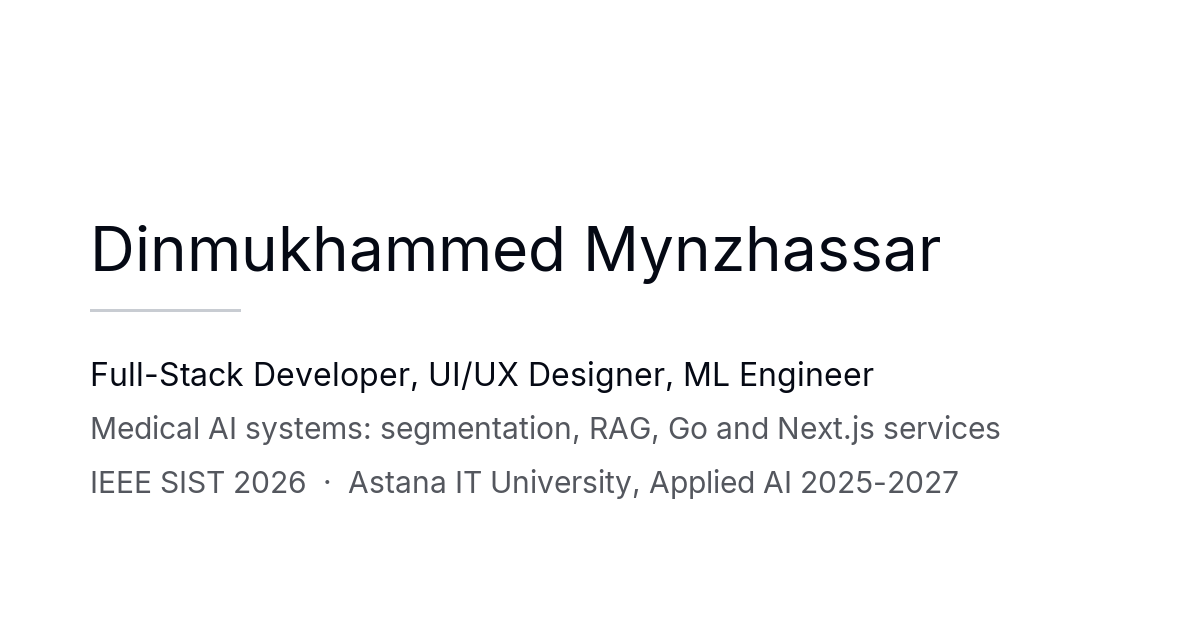
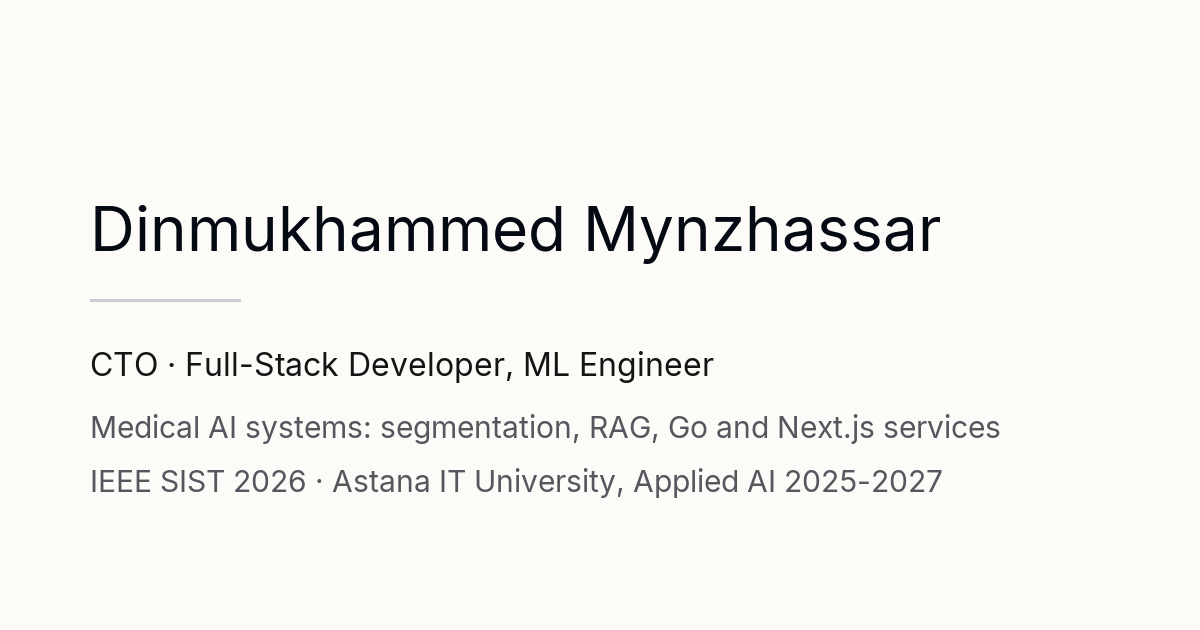
Add CTO title to headline, summary and Galamat experience

diff --git a/content/resume.ts b/content/resume.ts
@@ -11,7 +11,7 @@ export const resume = {
   header: {
     name: 'Dinmukhammed Mynzhassar',
     shortAbout:
-      'Full-Stack Developer (React, TypeScript, Next.js, Go, Python, Java), UI/UX Designer, ML Engineer',
+      'CTO at Galamat Group · Full-Stack Developer (React, TypeScript, Next.js, Go, Python), UI/UX Designer, ML Engineer',
     location: 'Astana, Kazakhstan',
     contacts: {
       email: 'mynzhasardimash@gmail.com',
@@ -47,14 +47,14 @@ export const resume = {
   },
 
   summary:
-    'I build medical AI systems end to end: segmentation models in MONAI, RAG pipelines over clinical knowledge bases, and the Go and Next.js services that put them in front of patients and clinicians. I work as a full-stack and ML engineer in Astana on platforms covering psychology, urology, ophthalmology and lab-result interpretation. My chest X-ray segmentation work was published at IEEE SIST 2026. I am a master’s student in Applied Artificial Intelligence at Astana IT University (2025-2027).',
+    'I build medical AI systems end to end: segmentation models in MONAI, RAG pipelines over clinical knowledge bases, and the Go and Next.js services that put them in front of patients and clinicians. As CTO of Galamat Group I lead engineering hands-on across platforms covering psychology, urology, ophthalmology and lab-result interpretation. My chest X-ray segmentation work was published at IEEE SIST 2026. I am a master’s student in Applied Artificial Intelligence at Astana IT University (2025-2027).',
 
   workExperience: [
     {
       company: 'Galamat Group',
       location: 'Astana, Kazakhstan',
       contract: 'Full-time',
-      title: 'Full Stack Developer, ML Engineer',
+      title: 'CTO',
       start: '2026-01-01',
       end: null,
       description:
